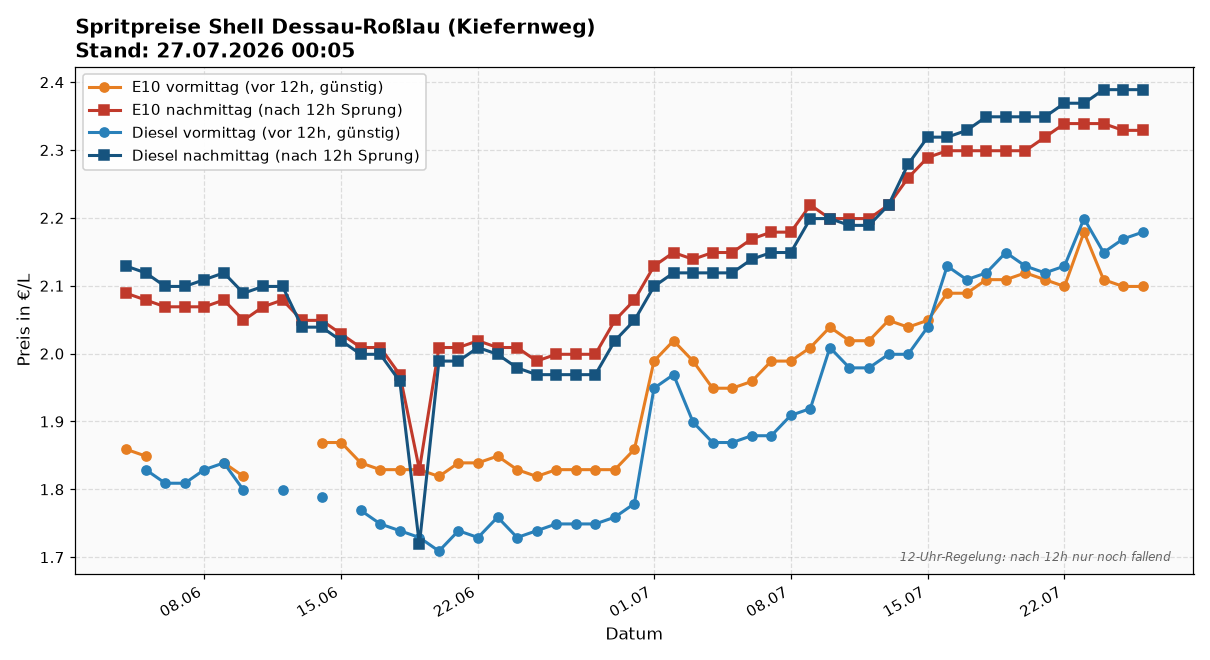
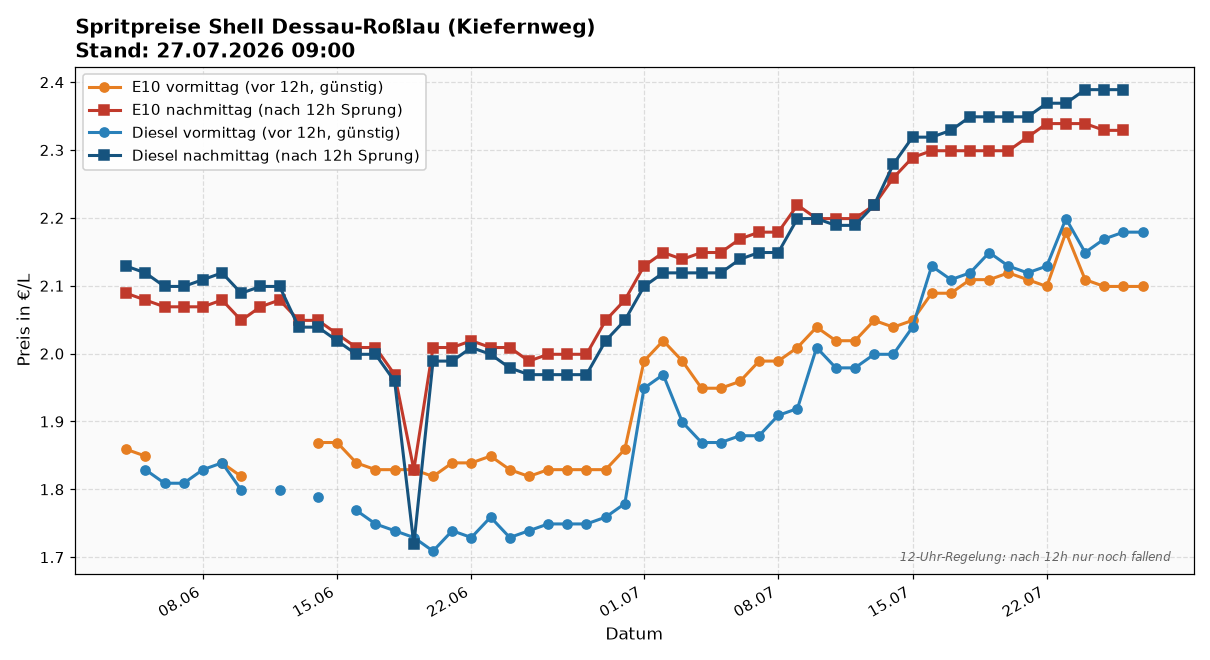
update: spritpreise 2026-07-27 09:00

diff --git a/index.html b/index.html
@@ -19,17 +19,17 @@
 </head>
 <body>
 <h1>🛢 Spritpreise Shell Dessau-Roßlau (Kiefernweg)</h1>
-<div class="sub">Source: Tankerkönig · Stand: 27.07.2026 00:05</div>
+<div class="sub">Source: Tankerkönig · Stand: 27.07.2026 09:00</div>
 
 <img src="latest.png" alt="Preisverlauf">
 
 <div class="latest">
   <strong>Heute (2026-07-27)</strong>
-  <div style="color:#888;font-style:italic;margin-bottom:0.5em;">Noch keine Messung heute — cron läuft 09:00 + 12:10.</div>
+  
   <table>
-    <tr><td>E10 vormittag</td><td class="price">— €</td></tr>
+    <tr><td>E10 vormittag</td><td class="price">2.099 €</td></tr>
     <tr><td>E10 nachmittag</td><td class="price">— €</td></tr>
-    <tr><td>Diesel vormittag</td><td class="price">— €</td></tr>
+    <tr><td>Diesel vormittag</td><td class="price">2.179 €</td></tr>
     <tr><td>Diesel nachmittag</td><td class="price">— €</td></tr>
   </table>
 </div>
